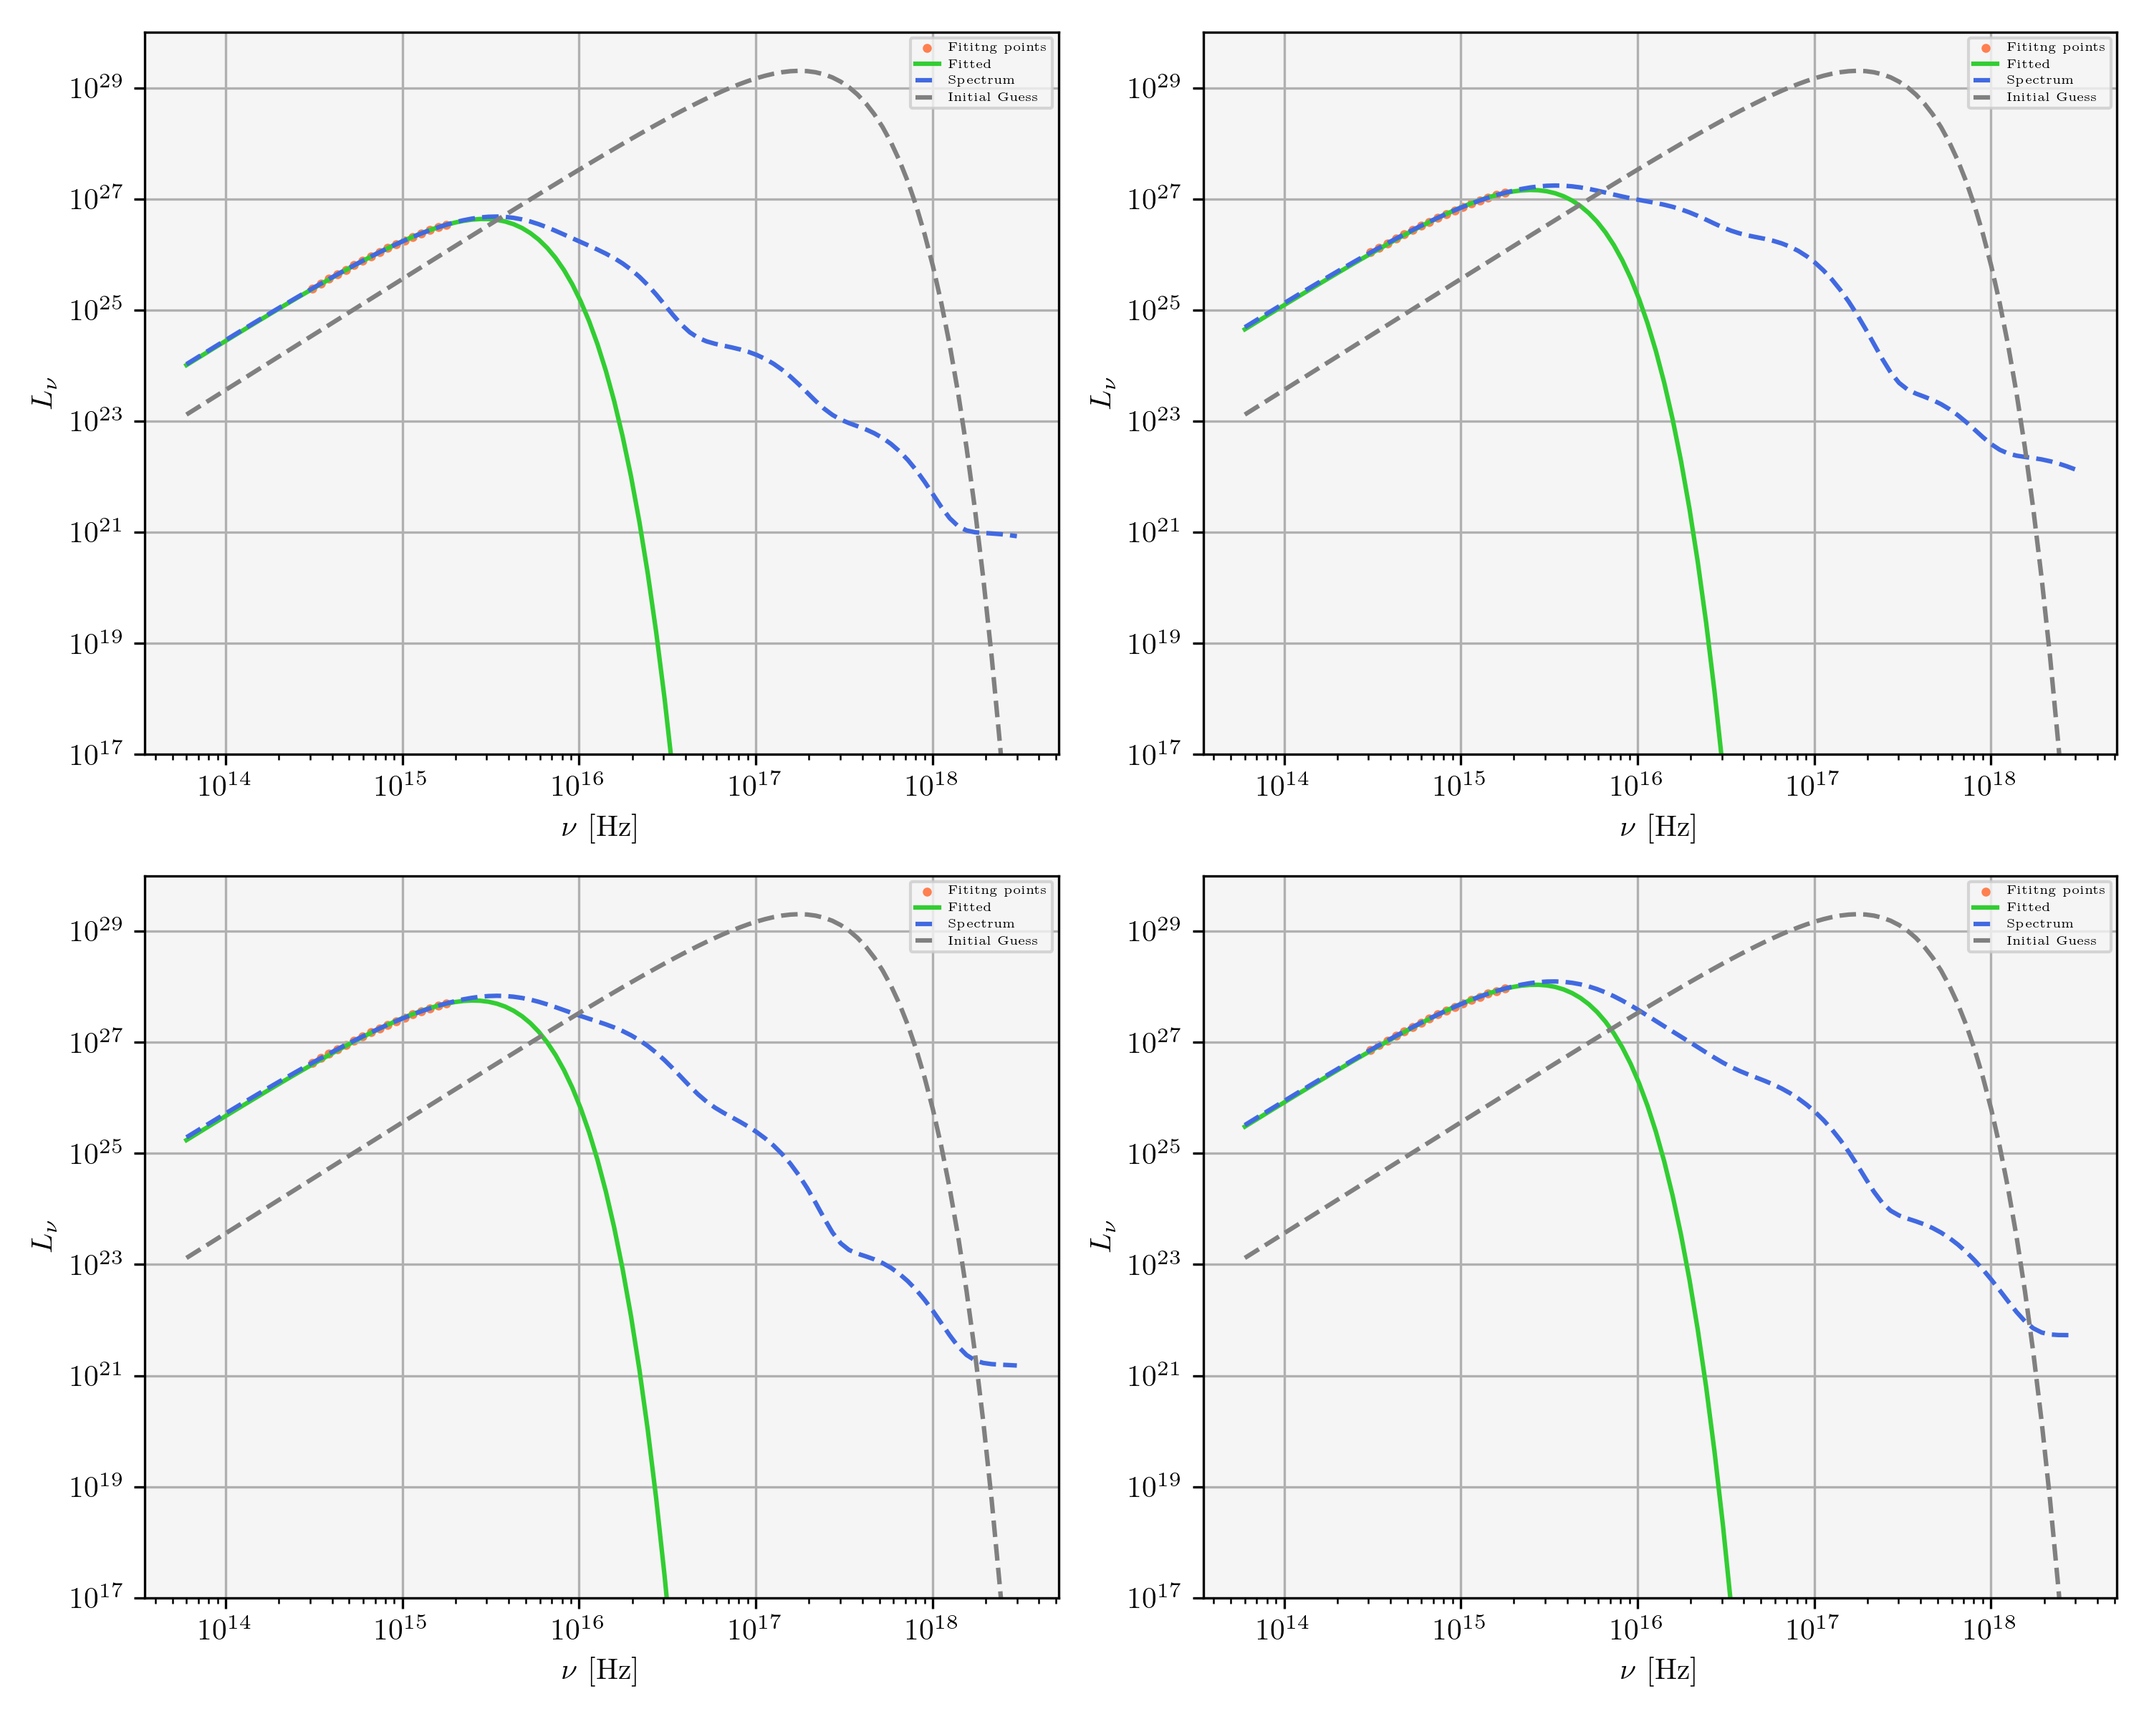
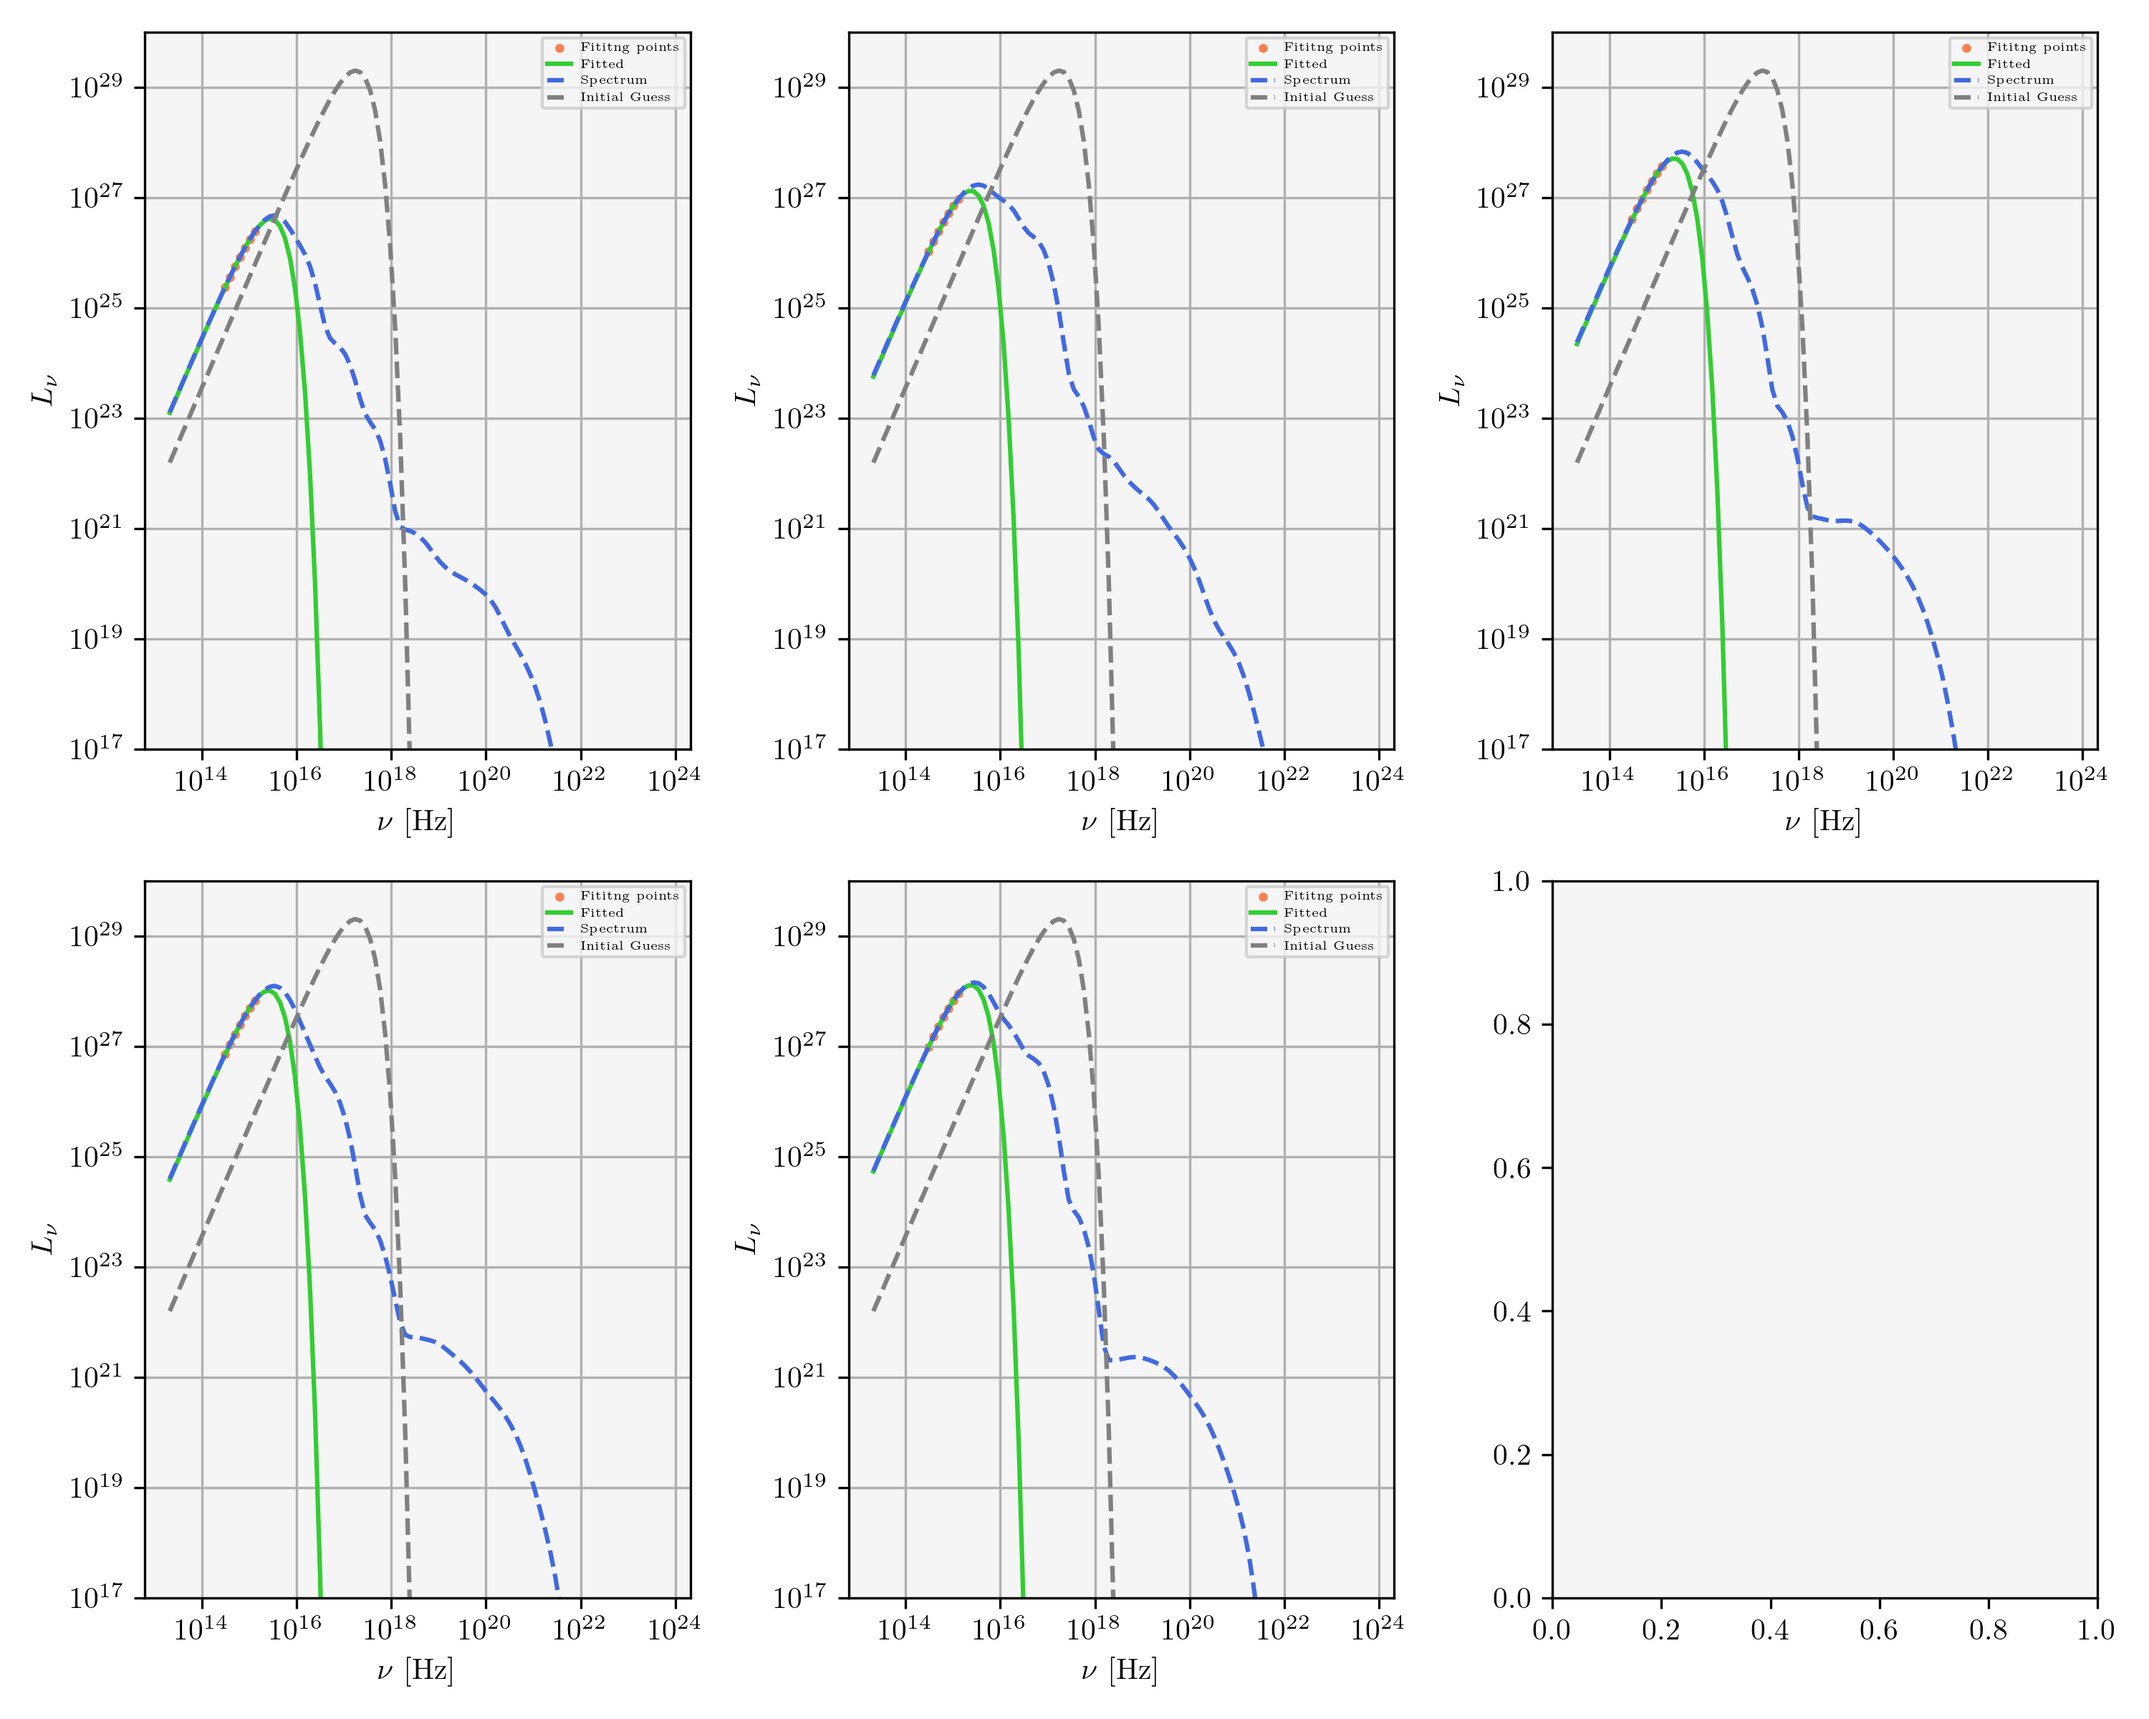
testing blue till the last snapshot. BAD

diff --git a/src/Luminosity/blackbody_tree.py b/src/Luminosity/blackbody_tree.py
@@ -99,7 +99,7 @@ def select_rays(wanted_theta, wanted_phi, rays_T, rays_den, rays_cumulative_taus
 if __name__ == "__main__":
     plot = True
     save = True
-    select = True
+    select = False
     
     # Choose BH 
     m = 6
@@ -146,25 +146,9 @@ if __name__ == "__main__":
                 flum.close() 
     
     #%% Get thermalisation radius
-    for idx in range(1,2):#len(snapshots):
+    for idx in range(len(snapshots)):
         snap = snapshots[idx]
         tree_indexes, observers, rays_T, rays_den, _, radii, _ = ray_maker(snap, m, check, num)
-        if select:
-            _, _, wanted_index = select_observer(wanted_theta, wanted_phi, observers)
-            x_selected = np.sin(observers[wanted_index][0]) * np.cos(observers[wanted_index][1])
-            y_selected = np.sin(observers[wanted_index][0]) * np.sin(observers[wanted_index][1])
-            z_selected = np.cos(observers[wanted_index][0])
-            xyz_selected = [x_selected, y_selected, z_selected]
-            cross_dot = np.zeros(len(observers))
-            for iobs in range(len(observers)):
-                x = np.sin(observers[iobs][0]) * np.cos(observers[iobs][1])
-                y = np.sin(observers[iobs][0]) * np.sin(observers[iobs][1])
-                z = np.cos(observers[iobs][0])
-                xyz = [x,y,z]
-                cross_dot[iobs] = np.dot(xyz_selected, xyz)
-                if cross_dot[iobs] < 0:
-                    cross_dot[iobs] = 0
-                cross_dot /= 192
 
         _, rays_cumulative_taus, _, _, _ = get_specialr(rays_T, rays_den, radii, tree_indexes, select = 'thermr')
 
@@ -207,41 +191,30 @@ if __name__ == "__main__":
                 
                 for i, n in enumerate(n_arr): #we need linearspace
                     lum_n_cell = luminosity_n(T, rho, opt_depth, cell_vol, n)
-                    if select:
-                        lum_n_cell *= cross_dot[j]
                     lum_n[i] += lum_n_cell
-        if select:
-            const_norm = 1/192
-            lum_tilde_n = lum_n * const_norm
-        else:           
+          
         # Normalise with the bolometric luminosity from red curve (FLD)
-            const_norm = normalisation(lum_n, x_arr, luminosity_fld_fix[idx])
-            lum_tilde_n = lum_n * const_norm
-            # Find the bolometic energy (should be = to the one from FLD)
-            bolom_integrand =  n_arr * lum_tilde_n
-            bolom = np.log(10) * np.trapz(bolom_integrand, x_arr)
-            bolom = "{:.4e}".format(bolom) #scientific notation
-            print('Fix', snap, ', bolometric L:', bolom)
+        const_norm = normalisation(lum_n, x_arr, luminosity_fld_fix[idx])
+        lum_tilde_n = lum_n * const_norm
+        # Find the bolometic energy (should be = to the one from FLD)
+        bolom_integrand =  n_arr * lum_tilde_n
+        bolom = np.log(10) * np.trapz(bolom_integrand, x_arr)
+        bolom = "{:.4e}".format(bolom) #scientific notation
+        print('Fix', snap, ', bolometric L:', bolom)
 
         # Save data and plot
         if save:
-            if select:
-                with open(f'data/blue/nLn_single_m{m}.txt', 'a') as fselect:
-                    fselect.write(f'#snap {snap} L_tilde_n (theta, phi) = ({np.round(wanted_theta,4)},{np.round(wanted_phi,4)}) \n')
-                    fselect.write(' '.join(map(str, lum_tilde_n)) + '\n')
-                    fselect.close()
-            else:
             # Bolometric
-                with open(f'data/blue/L_tilda_bolom_m{m}.txt', 'a') as fbolo:
-                    fbolo.write('#snap '+ str(snap) + '\n')
-                    fbolo.write(bolom + '\n')
-                    fbolo.close()
-                    
-                # Spectrum
-                with open(f'data/blue/L_tilda_spectrum_m{m}.txt', 'a') as f:
-                    f.write('#snap '+ str(snap) + ' L_tilde_n \n')
-                    f.write(' '.join(map(str, lum_tilde_n)) + '\n')
-                    f.close()    
+            with open(f'data/blue/L_tilda_bolom_m{m}.txt', 'a') as fbolo:
+                fbolo.write('#snap '+ str(snap) + '\n')
+                fbolo.write(bolom + '\n')
+                fbolo.close()
+                
+            # Spectrum
+            with open(f'data/blue/L_tilda_spectrum_m{m}.txt', 'a') as f:
+                f.write('#snap '+ str(snap) + ' L_tilde_n \n')
+                f.write(' '.join(map(str, lum_tilde_n)) + '\n')
+                f.close()    
         if plot:
             # plt.figure( figsize=(4,5))
             # plt.plot(n_arr, lum_tilde_n)
@@ -264,6 +237,6 @@ if __name__ == "__main__":
             ax2.invert_xaxis()
             ax2.loglog()
             ax2.set_xlabel(r'Wavelength [\AA]')
-            # plt.savefig(f'Figs/n_Ltildan_m{m}_snap{snap}')
-            plt.show()
+            plt.savefig(f'Figs/n_Ltildan_m{m}_snap{snap}')
+            #plt.show()
                         

diff --git a/src/Plotting/Light-Curves/comparison_with_elad.py b/src/Plotting/Light-Curves/comparison_with_elad.py
@@ -43,8 +43,8 @@ if plot_curves:
         days = fld_data[0]
         r = fld_data[1]
 
-    daysb = np.loadtxt('data/blue/bluedata_m'+ str(m) + '.txt')[0]
-    b = np.loadtxt('data/blue/bluedata_m'+ str(m) + '.txt')[3]
+    daysb = np.loadtxt(f'data/blue/blue_m{m}{check}_days.txt')
+    b = np.loadtxt('data/blue/bluedata_m'+ str(m) + '.txt')[2]
     # Elad Plot
     plt.plot(elad_time[0], elad_red_topolt, c = 'r')
     plt.plot(elad_time[0],elad_blue_topolt, c = 'b')
@@ -60,7 +60,7 @@ if plot_curves:
     plt.xlim(39, 65)
     plt.xlabel('Time [days]')
     plt.ylabel('Luminosity [erg/s]')
-    plt.savefig('Final plot/Elad_comparison.png')
+    plt.savefig('Final_plot/Elad_comparison.png')
     plt.show()
 
     if residuals:
@@ -79,7 +79,7 @@ if plot_curves:
         plt.xlim(39, 65)
         plt.xlabel('Time [days]')
         plt.ylabel(r'$1 - L/L^{Elad}$')
-        plt.savefig('Final plot/residuals.png')
+        plt.savefig('Final_plot/residuals.png')
         plt.show()
 
 if plot_radii_sphere:
@@ -113,7 +113,7 @@ if plot_radii_sphere:
     plt.grid()
     plt.yscale('log')
     plt.legend(fontsize = 7)
-    plt.savefig('Final plot/radii_comparison.png')
+    plt.savefig('Final_plot/radii_comparison.png')
     plt.show()
 
 if plot_fit:
@@ -133,5 +133,5 @@ if plot_fit:
     ax2.set(xlabel = 'Times [days]', ylabel = r'$\log_{10}$ Radius [cm]')
     ax2.set_yscale('log')
     plt.subplots_adjust(wspace=0.6)
-    plt.savefig('Final plot/fitted_quantities.png')
+    plt.savefig('Final_plot/fitted_quantities.png')
     plt.show()

diff --git a/src/Luminosity/fit.py b/src/Luminosity/fit.py
@@ -69,7 +69,7 @@ if __name__ == '__main__':
         Blue = np.zeros(len(data))
         
         # NOTE: last 4 because we save on top all the time and should fix that
-        for i in range(len(data) - 4, len(data)):
+        for i in range(len(data)):#(len(data) - 4, len(data)):
             Lums = data[i] 
             # print(Lums)
             Lums_fit = Lums[freq_min_idx:freq_max_idx]
@@ -97,14 +97,16 @@ if __name__ == '__main__':
                 f.close()
                 
     if plot:
-        fig, axs = plt.subplots(2,2, tight_layout = True)
+        fig, axs = plt.subplots(2,3, tight_layout = True)
         axs2 = []
         for i in range(2):
-            for j in range(2):
+            for j in range(3):
                 axs2.append(axs[i,j])
               
         for i, ax in enumerate(axs2):
-            Lums = data[i + len(data) - 4] # NOTE: last 4 because we save on top all the time and should fix that
+            if i == 5:
+                break
+            Lums = data[i] #data[i + len(data) - 4] # NOTE: last 4 because we save on top all the time and should fix that
             Lums_fit = Lums[freq_min_idx:freq_max_idx]
             fit = curve_fit(tofit, fit_freqs, Lums_fit, p0 = (init_R, init_T))
             
@@ -127,5 +129,5 @@ if __name__ == '__main__':
             ax.legend(fontsize = 4)
             ax.set_ylim(1e17,1e30)
         if save: 
-            plt.savefig('Final plot/Fit_m' + str(m) + '.png')
+            plt.savefig('Final_plot/Fit_m' + str(m) + '.png')
         plt.show()

diff --git a/src/Calculators/select_observers.py b/src/Calculators/select_observers.py
@@ -26,12 +26,16 @@ def find_sph_coord(theta,phi):
     #xyz = [x, y, z]
     return x,y,z
 
-def select_observer(wanted_theta, wanted_phi, thetas, phis):
+def select_observer(wanted_theta, wanted_phi, observers):
     """ Gives thetas, phis from helpix and 
     the index of the points closer to the one given by (wanted_theta, wanted_phi)"""
-
     dist = np.zeros(192)
-    for i in range(192):
+    thetas = np.zeros(192)
+    phis = np.zeros(192)
+
+    for i in range(len(observers)): 
+        thetas[i] = observers[i][0]
+        phis[i] =  observers[i][1]
         delta_theta = wanted_theta -  thetas[i]
         delta_phi = wanted_phi -  phis[i]
         # Haversine formula
@@ -109,7 +113,7 @@ if __name__ == '__main__':
     for idx in range(len(wanted_thetas)):
         wanted_theta = wanted_thetas[idx]
         wanted_phi = wanted_phis[idx]
-        wanted_index = select_observer(wanted_theta, wanted_phi, thetas, phis)
+        wanted_index = select_observer(wanted_theta, wanted_phi, observers)
         x_selected[idx], y_selected[idx], z_selected[idx] = find_sph_coord(thetas[wanted_index], phis[wanted_index])
 
     print('X:' , x_selected)

diff --git a/src/Luminosity/select_path.py b/src/Luminosity/select_path.py
@@ -38,7 +38,7 @@ def select_snap(m, check):
         if m == 4 and check == 'fid':
             snapshots = [233] #, 254, 263, 277 , 293, 308, 322]
         if m == 6 and check == 'fid':
-            snapshots = [844, 881, 925, 950]# , 1008] 
+            snapshots = [844, 881, 925, 950, 1008] 
     for snap in snapshots:
         snap = str(snap) 
         day = np.round(days_since_distruption( pre +
